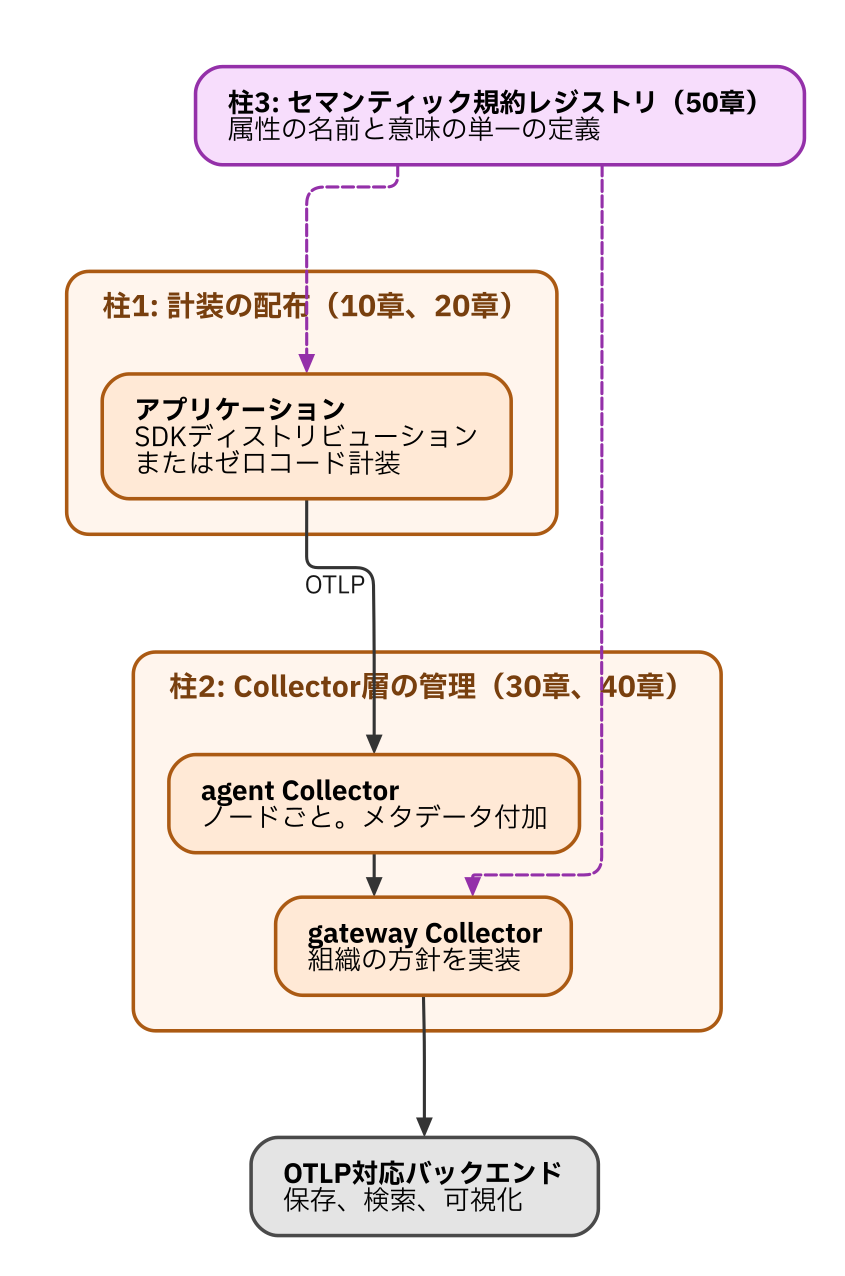
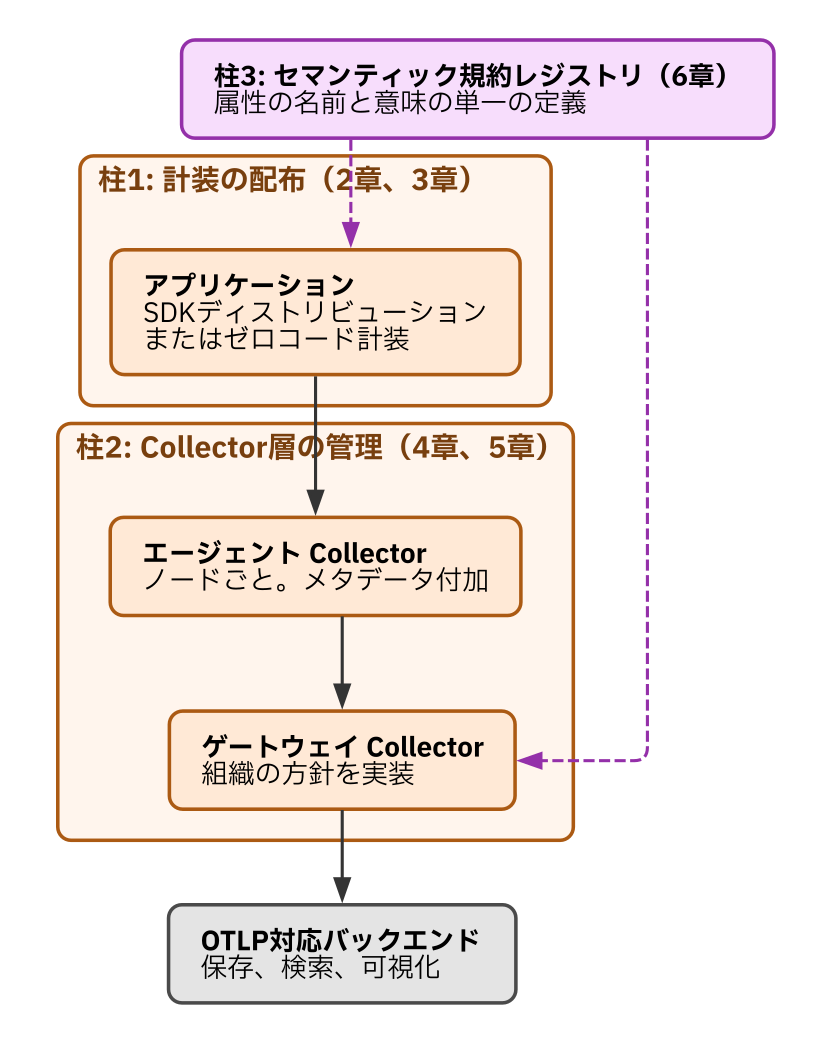
style(otel-platform): 部品名をカタカナにし、章番号を実際の番号へ直す
1章へのフィードバック3点に対応した。

部品名をカタカナへ統一した（プロパゲーター、プロセッサー、
エクスポーター、レシーバー、リソース、サンプラー、ゲートウェイ、
エージェント）。初出だけ英語を括弧書きで併記し、本全体で1回ずつに
なるよう重複を外した。コードブロック、インラインコード、URL、
モジュールパス（otlpreceiver、opampextension など複合した識別子）は
対象外。図のラベルも同じ語を直し、DOTの識別子は変えていない。

章参照をファイル名の接頭辞（00章、10章…）から、config.yaml の
列挙順に基づく実際の章番号（1章、2章…）へ直した。zenn.dev は
chapters の順で番号を振るので、接頭辞とレンダリング後の番号は
一致しない。本文61件と図12件が該当した。

図2（three-pillars）のゲートウェイへ向かう紫の破線が、矢じりの
直前で折れていた。原因はELKの配線で、pick_layout の採点では
dot がラベル破綻2件で負けていた。その2件は「OTLP」のラベルが
柱1と柱2の枠の間に挟まれて両方の枠線を跨ぐもので、実線の意味は
キャプションが述べているため外した。これで dot が勝ち、矢印は
水平に直進して到達する。

Changed region(s): [[0.0614, 0.0307, 0.9521, 0.9818], [0.7371, 0.7057, 0.7985, 0.7363]]

diff --git a/books/observability-platform-with-otel/00-introduction.md b/books/observability-platform-with-otel/00-introduction.md
@@ -29,7 +29,7 @@ Platform Engineeringでは、プラットフォームチームの仕事を、個
 本書は、OpenTelemetryを使った実装の経験を前提としません。議論に必要なのは、テレメトリーが生まれてから保存されるまでの並びだけです。
 
 ![OpenTelemetryの最小構成](/images/20260926-minimal-otel.png)
-*図1　実線の矢印はテレメトリーの流れ、点線はサービス間のリクエストを表します。リクエストにはpropagatorがトレースの文脈を載せます。計装されたサービスが作ったテレメトリーは、OTLPでCollectorを経由してバックエンドに届きます。*
+*図1　実線の矢印はテレメトリーの流れ、点線はサービス間のリクエストを表します。リクエストにはトレースの文脈が載ります。計装されたサービスが作ったテレメトリーは、OTLPでCollectorを経由してバックエンドに届きます。*
 
 **計装**（instrumentation）は、アプリケーションにテレメトリーを生成させる仕組みです。主なテレメトリーには、リクエスト処理の流れを記録する**トレース**、数値の推移を記録する**メトリクス**、処理中の出来事を記録する**ログ**があります。
 
@@ -79,15 +79,15 @@ Platform Engineeringでは、プラットフォームチームの仕事を、個
 
 AIエージェントを開発と運用へ組み込むプラットフォームでは、人間に加えてAIエージェントもテレメトリーを読み書きします。
 
-書く側では、LLMを使うワークロードが、トークン使用量や会話の構造といった従来とは異なるテレメトリーを生成します。OpenTelemetryでは、このためのGenAI規約が整備されています（60章）。読む側では、AIエージェントがテレメトリーを検索し、障害調査や運用に参加します（70章）。
+書く側では、LLMを使うワークロードが、トークン使用量や会話の構造といった従来とは異なるテレメトリーを生成します。OpenTelemetryでは、このためのGenAI規約が整備されています（7章）。読む側では、AIエージェントがテレメトリーを検索し、障害調査や運用に参加します（8章）。
 
-本書では、スキーマを統制して機械から参照できるようにすると、AIエージェントが誤ったクエリを生成する可能性を減らせる、という設計仮説を置きます。人間は属性名の揺れを文脈から推測できますが、AIエージェントは生成したクエリを実行し、検索から漏れたデータを認識できない場合があるためです。70章では、この機構と検証方法を分けて説明します。
+本書では、スキーマを統制して機械から参照できるようにすると、AIエージェントが誤ったクエリを生成する可能性を減らせる、という設計仮説を置きます。人間は属性名の揺れを文脈から推測できますが、AIエージェントは生成したクエリを実行し、検索から漏れたデータを認識できない場合があるためです。8章では、この機構と検証方法を分けて説明します。
 
 この仮説が成り立つなら、三本柱への投資を、AIエージェントが運用へ参加するための準備にも使えます。ただし、調査精度への効果は実測による評価が必要です。
 
 ## 本書の構成と読み方
 
-本書は、[Platform Engineering Kaigi 2026のセッション](https://www.cnia.io/pek2026/sessions/eba4a57f-e4f0-4201-b731-0a37d6a53f7a/)「セルフサービスのオブザーバビリティ基盤をOpenTelemetryで作る」の解説資料です。セッションでは省略する設計の詳細と、手元で確認できるリファレンス実装（80章）を収録しています。
+本書は、[Platform Engineering Kaigi 2026のセッション](https://www.cnia.io/pek2026/sessions/eba4a57f-e4f0-4201-b731-0a37d6a53f7a/)「セルフサービスのオブザーバビリティ基盤をOpenTelemetryで作る」の解説資料です。セッションでは省略する設計の詳細と、手元で確認できるリファレンス実装（9章）を収録しています。
 
 想定する読者は、組織へオブザーバビリティ基盤を提供するPlatform Engineer、Architect、Engineering Managerです。OpenTelemetryの実装経験は前提としません。コード例には主にGoを使いますが、設計上の論点はほかの言語にも適用でき、多言語展開で生じる違いは該当箇所で説明します。
 

diff --git a/books/observability-platform-with-otel/99-references.md b/books/observability-platform-with-otel/99-references.md
@@ -11,7 +11,7 @@ title: "参考リンク"
 - サンプルリポジトリ [otel-platform-blueprint](https://github.com/ymotongpoo/otel-platform-blueprint)
 - 登壇スライド <!-- 公開後にURLを入れる -->
 
-## 10章 SDKディストリビューション
+## 2章 SDKディストリビューション
 
 - [Distributions（概念の定義）](https://opentelemetry.io/docs/concepts/distributions/)
 - [opentelemetry-go](https://github.com/open-telemetry/opentelemetry-go) と [versions.yaml（モジュール別のstability）](https://github.com/open-telemetry/opentelemetry-go/blob/main/versions.yaml)
@@ -21,7 +21,7 @@ title: "参考リンク"
 - [計装ライブラリのレジストリ](https://opentelemetry.io/ecosystem/registry/)
 - [OpenTelemetryのConsistent Probability Samplingを理解する（自著）](https://zenn.dev/ymotongpoo/articles/20260717-cps)
 
-## 20章 ゼロコード計装
+## 3章 ゼロコード計装
 
 - [Zero-code instrumentation](https://opentelemetry.io/docs/zero-code/)
 - [OBI（OpenTelemetry eBPF Instrumentation）](https://opentelemetry.io/docs/zero-code/obi/) と [2026年の目標を述べた公式ブログ](https://opentelemetry.io/blog/2026/obi-goals/)
@@ -29,21 +29,21 @@ title: "参考リンク"
 - [OpenTelemetry OperatorによるKubernetesでの自動計装](https://opentelemetry.io/docs/platforms/kubernetes/operator/automatic/)
 - 「OpenTelemetry eBPF Instrumentationの舞台裏」（自著。GoバイナリへのeBPF計装の制約を扱った本） <!-- 公開後にURLを入れる -->
 
-## 30章 Collector層
+## 4章 Collector層
 
 - [OpenTelemetry Collector](https://opentelemetry.io/docs/collector/)
 - [Building a custom Collector（OCB）](https://opentelemetry.io/docs/collector/extend/ocb/)
 - [opentelemetry-collector](https://github.com/open-telemetry/opentelemetry-collector) と [opentelemetry-collector-contrib](https://github.com/open-telemetry/opentelemetry-collector-contrib)
 - [opentelemetry-collector-releases（公式配布物のビルドパイプライン）](https://github.com/open-telemetry/opentelemetry-collector-releases)
 
-## 40章 フリート管理
+## 5章 フリート管理
 
 - [Management（Collector管理の公式ドキュメント）](https://opentelemetry.io/docs/collector/management/)
 - [OpAMP仕様](https://github.com/open-telemetry/opamp-spec/blob/main/specification.md)
 - [opamp-go](https://github.com/open-telemetry/opamp-go)
 - [OpAMP Supervisor](https://github.com/open-telemetry/opentelemetry-collector-contrib/tree/main/cmd/opampsupervisor)
 
-## 50章 セマンティック規約とWeaver
+## 6章 セマンティック規約とWeaver
 
 - [Semantic conventions](https://opentelemetry.io/docs/specs/semconv/) と [semantic-conventionsリポジトリ](https://github.com/open-telemetry/semantic-conventions)
 - [OpenTelemetry Weaver](https://github.com/open-telemetry/weaver) と [カスタムレジストリ定義のガイド](https://github.com/open-telemetry/weaver/blob/main/docs/define-your-own-telemetry-schema.md)
@@ -52,17 +52,17 @@ title: "参考リンク"
 - [公式Go semconvパッケージの生成テンプレート](https://github.com/open-telemetry/opentelemetry-go/tree/main/semconv/templates)
 - [Observability by Design（公式ブログ。semconv運用へのWeaver適用）](https://opentelemetry.io/blog/2025/otel-weaver/)
 
-## 60章 AIワークロードのテレメトリー
+## 7章 AIワークロードのテレメトリー
 
 - [semantic-conventions-genai（GenAI規約の専用リポジトリ）](https://github.com/open-telemetry/semantic-conventions-genai)
 - [Inside the LLM Call（公式ブログ）](https://opentelemetry.io/blog/2026/genai-observability/)
 - [opentelemetry-python-genai（Python公式のGenAI計装）](https://github.com/open-telemetry/opentelemetry-python-genai)
 - [Claude CodeとCodex CLIのテレメトリーをGrafana Cloudで見る（自著）](https://zenn.dev/ymotongpoo/articles/20260616-ai-cli-otel-grafana)
 
-## 70章 AIによる読み取り
+## 8章 AIによる読み取り
 
 - [MCPのセマンティック規約](https://github.com/open-telemetry/semantic-conventions-genai/blob/main/docs/gen-ai/mcp.md)
-- [AI Agent Observability（公式ブログ）](https://opentelemetry.io/blog/2025/ai-agent-observability/)
+- [AI エージェント Observability（公式ブログ）](https://opentelemetry.io/blog/2025/ai-agent-observability/)
 - [Model Context Protocol](https://modelcontextprotocol.io/)
 
 ## Platform Engineering関連

diff --git a/books/observability-platform-with-otel/70-ai_driven_operations.md b/books/observability-platform-with-otel/70-ai_driven_operations.md
@@ -23,7 +23,7 @@ AIエージェントは複数の調査を並列に実行できますが、クエ
 
 ## 機械可読テレメトリーの条件
 
-00章では、スキーマを統制して機械から参照できるようにすると、AIエージェントの誤ったクエリを減らせるという仮説を置きました。生成したクエリに存在しない属性名が入れば、結果は空になります。一つの値だけを検索すれば、別名を使うデータは対象に入りません。AIエージェントが表記揺れを調べるには、利用可能な属性と値の定義を参照する手段が必要です。
+1章では、スキーマを統制して機械から参照できるようにすると、AIエージェントの誤ったクエリを減らせるという仮説を置きました。生成したクエリに存在しない属性名が入れば、結果は空になります。一つの値だけを検索すれば、別名を使うデータは対象に入りません。AIエージェントが表記揺れを調べるには、利用可能な属性と値の定義を参照する手段が必要です。
 
 シグナル間の移動には[**exemplar**](https://opentelemetry.io/docs/specs/otel/metrics/data-model/#exemplars)を使います。exemplarは、メトリクスの計測点へ代表するtrace IDを記録する仕組みです。メトリクスからトレースへ移り、さらにtrace IDとspan IDから関連するログを検索できます。
 
@@ -32,7 +32,7 @@ AIエージェントが検索に使う情報と、それを提供する基盤の
 | 条件 | 検索での用途 | 提供する仕組み |
 |---|---|---|
 | 属性の名前と意味が統一されている | クエリで使う属性を一意に選ぶ | セマンティック規約とCollectorの属性統制 |
-| resource属性から環境、サービス、バージョン、所有チームを特定できる | 検索範囲と報告先を決める | SDKディストリビューションとagentによるresource属性の付加 |
+| リソース属性から環境、サービス、バージョン、所有チームを特定できる | 検索範囲と報告先を決める | SDKディストリビューションとエージェントによるリソース属性の付加 |
 | メトリクス、トレース、ログが相関している | 異常な計測点から関連する処理とログへ移る | exemplar、trace ID、span IDの記録 |
 | スキーマを機械から参照できる | 実在する属性と値の定義を取得する | `weaver registry mcp` で公開した社内レジストリ |
 

diff --git a/books/observability-platform-with-otel/20-zero_code_instrumentation.md b/books/observability-platform-with-otel/20-zero_code_instrumentation.md
@@ -117,7 +117,7 @@ Operatorを使えない環境では、ビルドとデプロイのどこを変更
 - CIテンプレートに組み込む。Goのotelcはこの方式。ビルドコマンドを差し替えるため、共通CIを持つ組織では展開しやすい
 - ホスト単位でeBPFエージェントを動かす。OBIをホストのデーモンとして動かし、そのホスト上の全プロセスを観測する
 
-どの方式でも、送信先には各環境のagent Collector（30章）を指定します。ゼロコード計装だけがバックエンドへ直接送信すると、Collectorで行う変換や制御を適用できません。
+どの方式でも、送信先には各環境のエージェント Collector（4章）を指定します。ゼロコード計装だけがバックエンドへ直接送信すると、Collectorで行う変換や制御を適用できません。
 
 ## 手動計装への段階設計
 
